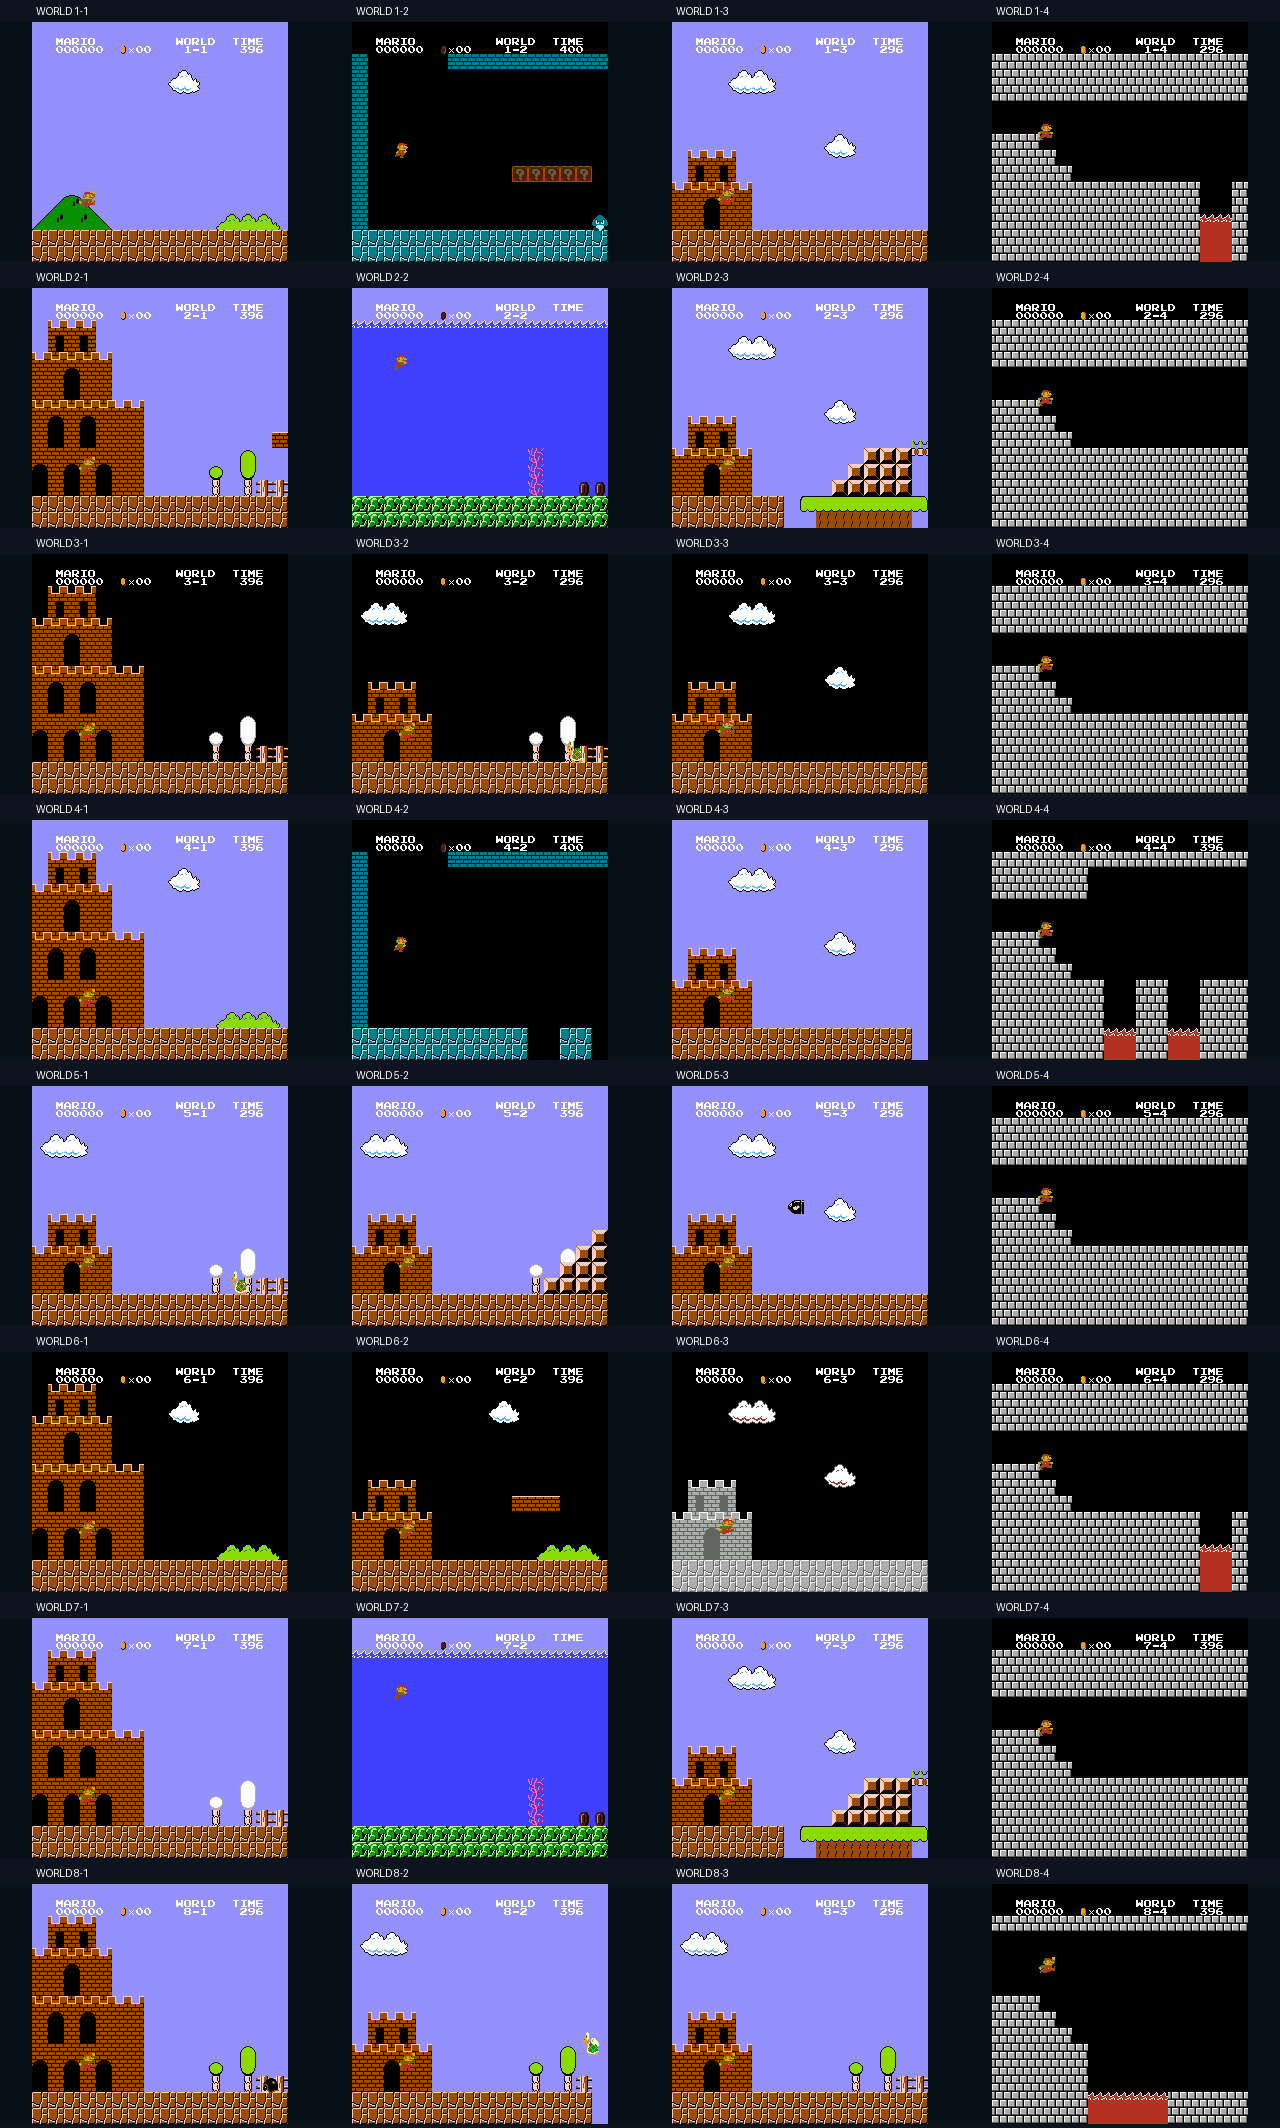
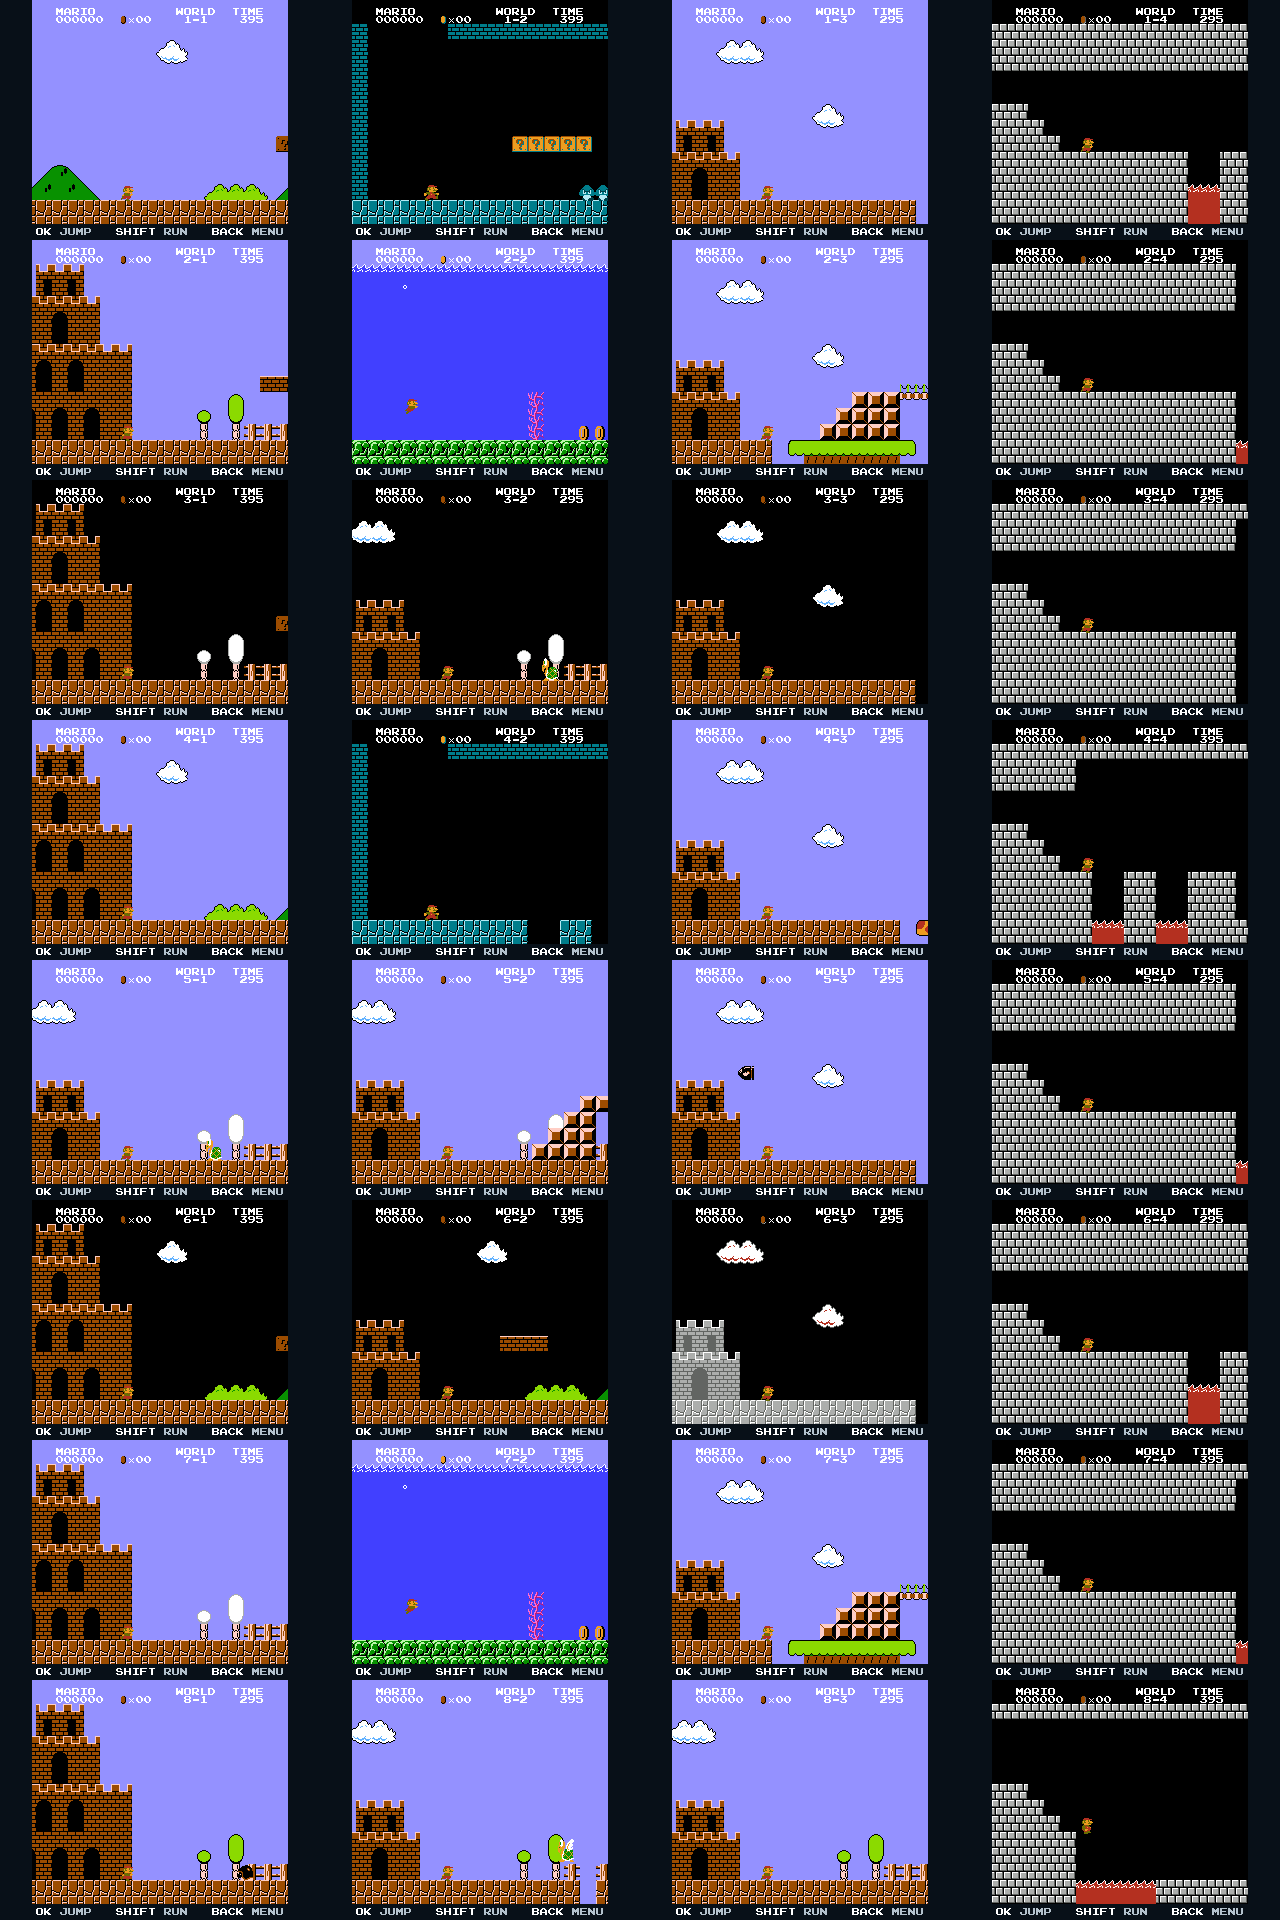
Keys on screen, and a pause menu that is easy to read
The picture shows the NES's rows 8 to 231, the ones a television showed,
and the 16 rows under it hold a key line in the game's own letters: EXE
start and Alpha 1 or 2 players on the title, OK jump, Shift run and Back
menu while playing, EXE resume when the game is paused with Start, Shift
button B at the end of 8-4, and what OK and Back do in every menu.

The pause menu is Resume, New game, Controls and Quit, with the title's
mushroom and a framed bar on the chosen line. New game and Quit ask first;
Quit saves. The controls page opens on the first start, over the title.
Back opens the menu from anywhere in the game, and after an error OK or
Back return to the last save. The borders are drawn once, so each
frame sends 256 columns instead of 320.

The fidelity fingerprint now hashes the game picture only (the menus and
the key line can change without it): it is the same as Bobydeluxe's build
gives for the same rows. The screenshots are new.

diff --git a/src/render.c b/src/render.c
@@ -7,40 +7,54 @@
 #define NAVY RGB(13,19,31)
 #define GOLD RGB(247,186,63)
 #define GREY RGB(180,192,207)
+#define FOCUS RGB(54,68,91)
+/* The NES picture's rows 8 to 231, as a television showed them, fill the screen's first 224 rows between two
+ * borders; the 16 rows under it hold the key line. Everything is drawn in NES coordinates, 8 rows at a time:
+ * a strip covers rows top to top+7 and columns clip_l to clip_r-1 (the picture's 256, or the whole width). */
+#define PICTURE_TOP 8
+#define PICTURE_BOTTOM 232
 static uint16_t strip[320*8],palette[32];
-static int top;
+static int top,clip_l=32,clip_r=288;
 static bool invalid=true;
 void sm_invalidate(void) {invalid=true;}
 static void pixel(int x,int y,uint16_t c) {
-  if(x>=0&&x<320&&y>=top&&y<top+8)strip[(y-top)*320+x]=c;
+  if(x>=clip_l&&x<clip_r&&y>=top&&y<top+8)strip[(y-top)*(clip_r-clip_l)+x-clip_l]=c;
 }
 static void rect(int x,int y,int w,int h,uint16_t c) {
-  int l=x<0?0:x,r=x+w>320?320:x+w,t=y<top?top:y,b=y+h>top+8?top+8:y+h;
-  for(int yy=t;yy<b;++yy)for(int xx=l;xx<r;++xx)strip[(yy-top)*320+xx]=c;
+  int l=x<clip_l?clip_l:x,r=x+w>clip_r?clip_r:x+w,t=y<top?top:y,b=y+h>top+8?top+8:y+h;
+  for(int yy=t;yy<b;++yy)for(int xx=l;xx<r;++xx)strip[(yy-top)*(clip_r-clip_l)+xx-clip_l]=c;
 }
-static void tile(unsigned idx,int x,int y,unsigned pal,bool flipx,bool flipy,uint16_t override) {
-  if(y>=top+8||y+8<=top||x>=288||x+8<=32)return;
+static void frame(int x,int y,int w,int h,int t,uint16_t c) {
+  rect(x,y,w,t,c);rect(x,y+h-t,w,t,c);rect(x,y,t,h,c);rect(x+w-t,y,t,h,c);
+}
+/* One 8x8 pattern: colours 1 to 3 from the palette, or all from `override`, or from `fixed`. */
+static void pattern(unsigned idx,int x,int y,unsigned pal,bool flipx,bool flipy,uint16_t override,
+                      const uint16_t *fixed) {
+  if(y>=top+8||y+8<=top||x>=clip_r||x+8<=clip_l)return;
   const uint8_t *p=smb_patterns+(idx&511)*16;
   int start=top>y?top-y:0,end=top+8-y;if(end>8)end=8;
   for(int yy=start;yy<end;++yy) {
     int row=flipy?7-yy:yy;unsigned lo=p[row],hi=p[row+8];
     for(int xx=0;xx<8;++xx) {
       unsigned bit=flipx?xx:7-xx,v=((lo>>bit)&1)|(((hi>>bit)&1)<<1);
-      if(v&&x+xx>=32&&x+xx<288)pixel(x+xx,y+yy,override?override:palette[(pal&7)*4+v]);
+      if(v)pixel(x+xx,y+yy,fixed?fixed[v]:override?override:palette[(pal&7)*4+v]);
     }
   }
 }
-static void text(int x,int y,const char *s,uint16_t c) {
-  for(;*s;++s,x+=8) {
-    unsigned ch=(unsigned char)*s;
-    if(ch>='a'&&ch<='z')ch-=32;
-    unsigned idx=ch>='0'&&ch<='9'?ch-'0':ch>='A'&&ch<='Z'?ch-'A'+10:36;
-    if(ch=='-')idx=40;
-    if(ch=='!')idx=43;
-    if(ch=='.')idx=175;
-    tile(256+idx,x,y,0,false,false,c);
-  }
+static void tile(unsigned idx,int x,int y,unsigned pal,bool flipx,bool flipy,uint16_t override) {
+  pattern(idx,x,y,pal,flipx,flipy,override,0);
 }
+/* The game's own letters: digits, A to Z, - ! and . (others are blanks) */
+static void glyph(int x,int y,char c,uint16_t color) {
+  unsigned ch=(unsigned char)c;
+  if(ch>='a'&&ch<='z')ch-=32;
+  unsigned idx=ch>='0'&&ch<='9'?ch-'0':ch>='A'&&ch<='Z'?ch-'A'+10:36;
+  if(ch=='-')idx=40;
+  if(ch=='!')idx=43;
+  if(ch=='.')idx=175;
+  tile(256+idx,x,y,0,false,false,color);
+}
+static void text(int x,int y,const char *s,uint16_t c) {for(;*s;++s,x+=8)glyph(x,y,*s,c);}
 static void centered(int y,const char *s,uint16_t c) {text(160-(int)strlen(s)*4,y,s,c);}
 static void sprites(const sm_game *g,bool behind) {
   for(int i=63;i>=0;--i) {
@@ -63,38 +77,57 @@ static void background(const sm_game *g) {
     }
   }
 }
+/* the title screen's mushroom points at the chosen line */
+static const uint16_t mushroom[4]={0,RGB(0xfe,0xcc,0xc5),RGB(0x99,0x4e,0x00),RGB(0,0,0)};
 static void choice(int y,const char *label,unsigned id,unsigned selected) {
-  if(id==selected)rect(54,y-4,212,16,RGB(54,68,91)),text(60,y,">",GOLD);
-  text(76,y,label,id==selected?WHITE:GREY);
+  bool on=id==selected;
+  if(on)rect(76,y-5,168,18,FOCUS),frame(76,y-5,168,18,1,GOLD),pattern(256+0xce,88,y,0,false,false,0,mushroom);
+  text(108,y,label,on?WHITE:GREY);
 }
+static void panel(int x,int y,int w,int h) {rect(x,y,w,h,NAVY);rect(x,y,w,3,GOLD);}
 static void overlay(unsigned view,unsigned selected,bool failed) {
-  rect(47,50,226,149,NAVY);rect(47,50,226,3,GOLD);
   if(view==SM_VIEW_PAUSE) {
-    centered(64,"PAUSED",WHITE);
-    choice(90,"RESUME",0,selected);choice(112,"NEW GAME",1,selected);
-    choice(134,"CONTROLS",2,selected);choice(156,"SAVE AND EXIT",3,selected);
-    centered(182,failed?"SAVE FAILED":"BY BOBYDELUXE",failed?GOLD:GREY);
+    panel(64,52,192,140);centered(66,"PAUSED",WHITE);
+    choice(92,"RESUME",0,selected);choice(114,"NEW GAME",1,selected);
+    choice(136,"CONTROLS",2,selected);choice(158,"QUIT",3,selected);
+    if(failed)centered(178,"SAVE FAILED",GOLD);
   } else if(view==SM_VIEW_GUIDE) {
-    centered(64,"CONTROLS",WHITE);
-    text(58,86,"ARROWS     MOVE / DUCK",GREY);
-    text(58,104,"OK / 5     JUMP / SWIM",WHITE);
-    text(58,122,"SHIFT      RUN / FIRE",WHITE);
-    text(58,140,"EXE        START",GREY);
-    text(58,158,"ALPHA      1 / 2 PLAYERS",GREY);
-    centered(182,"OK / BACK  RETURN",GOLD);
-  } else if(view==SM_VIEW_RESTART) {
-    centered(64,"NEW GAME",WHITE);
-    centered(94,"REPLACE THIS ADVENTURE",GREY);
-    centered(111,"AND START FROM WORLD 1",GREY);
-    choice(143,"KEEP PLAYING",0,selected);choice(171,"START NEW",1,selected);
-  } else if(view==SM_VIEW_FAULT) {
-    centered(69,"GAME INTERRUPTED",GOLD);centered(102,"PROGRESS IS RETAINED",GREY);
-    centered(136,"OK  RETURN TO TITLE",WHITE);centered(177,"HOME  EXIT",GREY);
+    static const char *const keys[][2]={{"ARROWS","MOVE AND DUCK"},{"OK","JUMP AND SWIM"},{"SHIFT","RUN AND FIRE"},
+      {"EXE","START AND PAUSE"},{"ALPHA","1 OR 2 PLAYERS"},{"BACK","MENU"},{"HOME","SAVE AND QUIT"}};
+    panel(47,46,226,148);centered(60,"CONTROLS",WHITE);
+    for(int i=0;i<7;++i)text(60,82+i*15,keys[i][0],WHITE),text(124,82+i*15,keys[i][1],GREY);
+  } else if(view==SM_VIEW_RESTART||view==SM_VIEW_QUIT||view==SM_VIEW_FAULT) {
+    static const char *const lines[][2]={{"NEW GAME","THIS GAME WILL BE LOST"},{"QUIT","YOUR GAME IS SAVED"},
+      {"GAME INTERRUPTED","YOUR LAST SAVE IS KEPT"}};
+    unsigned i=view==SM_VIEW_RESTART?0:view==SM_VIEW_QUIT?1:2;
+    panel(56,90,208,60);centered(104,lines[i][0],i==2?GOLD:WHITE);centered(126,lines[i][1],GREY);
   } else {
-    centered(65,"SAVE FAILED",GOLD);centered(94,"FREE STORAGE MAY BE FULL",GREY);
-    centered(119,"OK  RETRY SAVE AND EXIT",WHITE);
-    centered(143,"1   RETURN TO THE GAME",GREY);
-    centered(171,"BACK  EXIT WITHOUT SAVE",GOLD);
+    panel(47,82,226,76);centered(96,"SAVE FAILED",GOLD);
+    centered(118,"THE STORAGE MAY BE FULL",GREY);centered(136,"BACK QUITS WITHOUT SAVING",GREY);
+  }
+}
+/* The keys that matter now: groups three spaces apart, each a key (white) and what it does. */
+static const char *keyline(const sm_game *g,unsigned view) {
+  const uint8_t *ram=g->state.rammem;
+  switch(view) {
+  case SM_VIEW_GAME:
+    if(ram[0x770]==0)return ram[0x7fc]?"EXE START   SHIFT WORLD   ALPHA PLAYERS":"EXE START   ALPHA 1 OR 2 PLAYERS";
+    if(ram[0x770]==2&&ram[0x75f]==7)return "SHIFT BUTTON B";
+    if(ram[0x776]&1)return "EXE RESUME   BACK MENU";
+    return "OK JUMP   SHIFT RUN   BACK MENU";
+  case SM_VIEW_PAUSE:return "OK SELECT   BACK RESUME";
+  case SM_VIEW_GUIDE:return "OK CONTINUE";
+  case SM_VIEW_RESTART:return "OK START OVER   BACK CANCEL";
+  case SM_VIEW_QUIT:return "OK QUIT   BACK CANCEL";
+  case SM_VIEW_FAULT:return "OK CONTINUE   HOME QUIT";
+  default:return "OK TRY AGAIN   1 RESUME   BACK QUIT";
+  }
+}
+static void draw_keys(const char *s,int y) {
+  int x=160-(int)strlen(s)*4;bool key=true;
+  for(const char *p=s;*p;++p,x+=8) {
+    if(*p==' ') {if(p[1]==' ')key=true;else if(p[-1]!=' ')key=false;continue;}
+    glyph(x,y,*p,key?WHITE:GREY);
   }
 }
 static unsigned old_view=99,old_selected;
@@ -106,15 +139,27 @@ void sm_render(const sm_game *g,unsigned view,unsigned selected,bool failed,sm_p
     unsigned c=g->state.ppuram[0x800+i]&63;
     palette[i]=(uint16_t)RGB(PALETTE_BUILTIN[c][0],PALETTE_BUILTIN[c][1],PALETTE_BUILTIN[c][2]);
   }
-  for(top=0;top<240;top+=8) {
-    rect(0,top,320,8,NAVY);rect(32,top,256,8,palette[16]);
+  if(invalid) { /* the borders beside the picture */
+    for(unsigned i=0;i<32*8;++i)strip[i]=NAVY;
+    for(int y=0;y<PICTURE_BOTTOM-PICTURE_TOP;y+=8)push(0,y,32,8,strip),push(288,y,32,8,strip);
+  }
+  clip_l=32;clip_r=288;
+  for(top=PICTURE_TOP;top<PICTURE_BOTTOM;top+=8) {
+    rect(32,top,256,8,palette[16]);
     if(g->state.ppu.screen_on) {sprites(g,true);background(g);sprites(g,false);}
     /* A small adaptation credit outside the original scene on the title. */
     if(g->state.rammem[0x770]==0&&g->state.rammem[0x772]>=3) {
       rect(104,196,112,11,palette[16]);centered(197,"BY BOBYDELUXE",WHITE);
     }
     if(view!=SM_VIEW_GAME)overlay(view,selected,failed);
-    push(0,top,320,8,strip);
+    push(32,top-PICTURE_TOP,256,8,strip);
   }
+  clip_l=0;clip_r=320;
+  const char *keys=keyline(g,view);
+  for(top=PICTURE_BOTTOM;top<PICTURE_BOTTOM+16;top+=8) {
+    rect(0,top,320,8,NAVY);draw_keys(keys,PICTURE_BOTTOM+4);
+    push(0,top-PICTURE_TOP,320,8,strip);
+  }
+  clip_l=32;clip_r=288;
   old_view=view;old_selected=selected;old_failed=failed;old_ticks=g->ticks;invalid=false;
 }

diff --git a/src/main.c b/src/main.c
@@ -37,13 +37,20 @@ static unsigned buttons(uint64_t k) {
   if(k&KEY(eadk_key_alpha))b|=SM_SELECT;
   return b;
 }
+/* the saved game, or false (the game unchanged) */
+static bool load(void) {
+  uint32_t length=0;const uint8_t *p=ef_read("supermario.sav",&length);
+  return sm_decode(&game,p,length);
+}
 int main(void) {
   np_app_begin();
-  uint32_t length=0;const uint8_t *p=ef_read("supermario.sav",&length);
-  bool loaded=sm_decode(&game,p,length);
-  if(!loaded)sm_init(&game);
-  /* A saved adventure opens frozen, so loading cannot cause an accidental death. */
-  unsigned view=loaded?SM_VIEW_PAUSE:SM_VIEW_GAME,selected=0,return_view=SM_VIEW_PAUSE;
+  bool loaded=load();
+  if(!loaded) { /* (the title drawn behind the keys) */
+    sm_init(&game);
+    for(unsigned i=0;i<90;++i)sm_step(&game,0);
+  }
+  /* A saved game opens paused, so loading cannot cause an accidental death. The first game opens on the keys. */
+  unsigned view=loaded?SM_VIEW_PAUSE:SM_VIEW_GUIDE,selected=0,return_view=SM_VIEW_GAME;
   unsigned error_return=view,error_selection=0;
   uint64_t previous=0,stale=eadk_keyboard_scan();
   uint32_t now=(uint32_t)eadk_timing_millis(),last=now,draw_at=now,save_at=now,accum=0;
@@ -78,20 +85,27 @@ int main(void) {
         if(next)selected=(selected+1)%4;
         if(prev)selected=(selected+3)%4;
         if(back||(ok&&selected==0))view=SM_VIEW_GAME,stale=keys;
-        else if(ok&&selected==1)view=SM_VIEW_RESTART,selected=0;
+        else if(ok&&selected==1)view=SM_VIEW_RESTART;
         else if(ok&&selected==2)view=SM_VIEW_GUIDE,return_view=SM_VIEW_PAUSE;
-        else if(ok&&selected==3) {
-          if(save())break;
-          error_return=SM_VIEW_PAUSE;error_selection=3;view=SM_VIEW_SAVE_ERROR;stale=keys;
-        }
+        else if(ok&&selected==3)view=SM_VIEW_QUIT;
       } else if(view==SM_VIEW_GUIDE) {
         if(ok||back)view=return_view,stale=keys;
       } else if(view==SM_VIEW_RESTART) {
-        if(next||prev)selected^=1;
-        if(back||(ok&&!selected))view=SM_VIEW_PAUSE,selected=1;
+        if(back)view=SM_VIEW_PAUSE;
         else if(ok){sm_init(&game);view=SM_VIEW_GAME;stale=keys;save_at=now;}
+      } else if(view==SM_VIEW_QUIT) {
+        if(back)view=SM_VIEW_PAUSE;
+        else if(ok) {
+          if(save())break;
+          error_return=SM_VIEW_PAUSE;error_selection=3;view=SM_VIEW_SAVE_ERROR;stale=keys;
+        }
       } else if(view==SM_VIEW_FAULT) {
-        if(ok){sm_init(&game);view=SM_VIEW_GAME;stale=keys;}
+        /* back to the last save (paused), or to the title */
+        if(ok||back) {
+          bool back_to_save=load();
+          if(!back_to_save)sm_init(&game);
+          view=back_to_save?SM_VIEW_PAUSE:SM_VIEW_GAME;selected=0;stale=keys;save_at=now;
+        }
       } else if(view==SM_VIEW_SAVE_ERROR) {
         if(back)break;
         if(ok&&save())break;

diff --git a/tests/fidelity.c b/tests/fidelity.c
@@ -1,6 +1,6 @@
-/* Regression fingerprint captured from the full, unoptimized port.
- * Hash every serialized tick and every RGB565 test image, including restored
- * states, 32 stages, power-ups, ending, menus and the reference input replay.
+/* Regression fingerprint of the engine and its picture.
+ * Hash every serialized tick and the game picture of every test image, including restored
+ * states, 32 stages, power-ups, ending and the reference input replay.
  * No native pointers or compiler-dependent structure padding enter the hash. */
 #include "../src/game.h"
 #include <stdio.h>
@@ -25,11 +25,17 @@ static bool traced_step(sm_game *g,uint8_t keys) {
   bool ok=sm_step(g,keys);uint8_t encoded[SM_SAVE_BYTES];
   sm_encode(g,encoded);hash(encoded,sizeof encoded);++ticks;return ok;
 }
+/* The picture the engine draws: the NES screen's 256 columns and its rows 8 to 231 (as a television showed them),
+ * from the game view only, so the menus and the key line can change without changing it. */
+#ifndef PICTURE_Y
+#define PICTURE_Y 0
+#endif
 static void traced_render(const sm_game *g,unsigned v,unsigned s,bool f,sm_push p) {
   sm_render(g,v,s,f,p);
+  if(v!=SM_VIEW_GAME)return;
   /* Normalize pixel byte order for a portable reference. */
-  for(unsigned i=0;i<320*240;++i) {
-    uint8_t b[2]={(uint8_t)screen[i],(uint8_t)(screen[i]>>8)};hash(b,2);
+  for(unsigned y=PICTURE_Y;y<PICTURE_Y+224;++y)for(unsigned x=32;x<288;++x) {
+    uint16_t c=screen[y*320+x];uint8_t b[2]={(uint8_t)c,(uint8_t)(c>>8)};hash(b,2);
   }
   ++images;
 }

diff --git a/src/game.h b/src/game.h
@@ -23,7 +23,7 @@ void sm_level(sm_game *g,unsigned world,unsigned level);
 void sm_encode(const sm_game *g,uint8_t out[SM_SAVE_BYTES]);
 bool sm_decode(sm_game *g,const uint8_t *data,size_t n);
 typedef void (*sm_push)(int x,int y,int w,int h,const uint16_t *pixels);
-enum { SM_VIEW_GAME,SM_VIEW_PAUSE,SM_VIEW_GUIDE,SM_VIEW_RESTART,SM_VIEW_SAVE_ERROR,SM_VIEW_FAULT };
+enum { SM_VIEW_GAME,SM_VIEW_PAUSE,SM_VIEW_GUIDE,SM_VIEW_RESTART,SM_VIEW_SAVE_ERROR,SM_VIEW_FAULT,SM_VIEW_QUIT,SM_VIEWS };
 void sm_render(const sm_game *g,unsigned view,unsigned selected,bool failed,sm_push push);
 void sm_invalidate(void);
 #endif

diff --git a/tests/test.c b/tests/test.c
@@ -97,7 +97,7 @@ int main(void) {
     save[i]^=1;assert(!sm_decode(&copy,save,sizeof save));save[i]^=1;
   }
   puts("PASS: every save-byte corruption rejected");
-  for(unsigned v=0;v<=SM_VIEW_FAULT;++v) {
+  for(unsigned v=0;v<SM_VIEWS;++v) {
     sm_invalidate();sm_render(&game,v,0,false,push);
     unsigned before=game.ticks;sm_render(&game,v,1,false,push);assert(game.ticks==before);
   }
